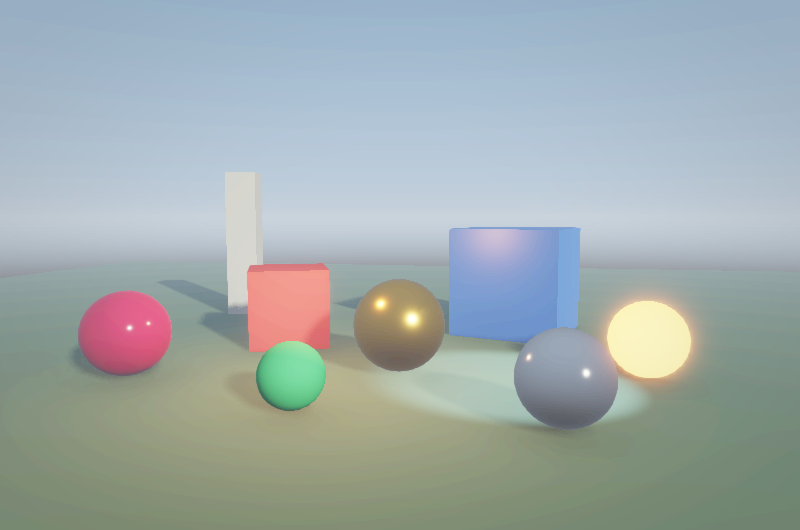
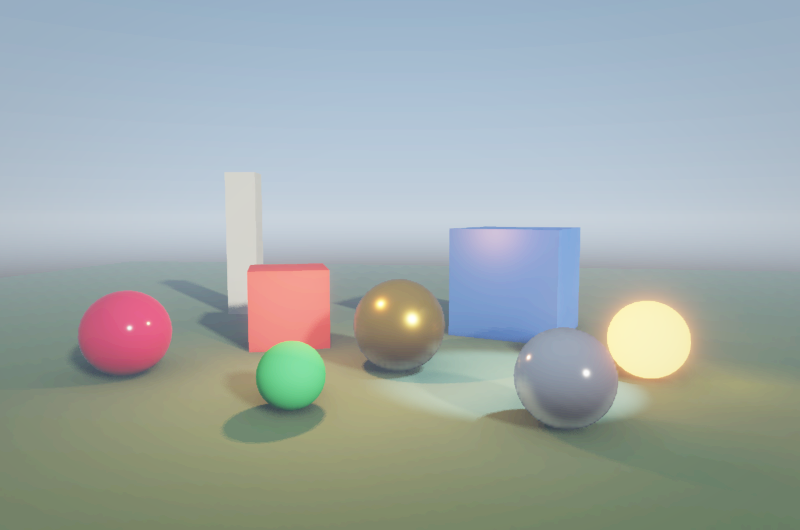
SSR: no speckle (self-hit rejection, silhouette fade, depth-aware denoise)
The Ultra preset's screen-space reflections left blocky speckles along
the lower edges of metal spheres: the jittered half-resolution march is
noisy and TAA's neighbourhood clamp kept the noise. Now:
- a hit must lie a few texels from the start and on a surface facing the
  ray (one normal tap at the hit; 11 march steps keep the shader within
  the CPU JIT's 16 samples);
- reflections fade out where the surface is nearly side-on;
- a separable depth-aware blur (pp_ssrblur_fragment, two half-resolution
  passes) denoises the result before the composite.
The gfx-ssr, gfx-ultra and gfx-low screenshots are re-rendered.

Also in the editor: a visible grey track for switches that are off (they
disappeared in the light theme), and the Settings title carries its icon.

Claude-Session: https://claude.ai/code/session_0112xJogLv1dfHPcB1oxhcYo

diff --git a/engine/gfx/shaders_hq.cpp b/engine/gfx/shaders_hq.cpp
@@ -830,8 +830,11 @@ void pp_ssrmask_fragment(char* out, size_t cap) {
           "}\n");
 }
 
-// Marches the reflection ray in view space (12 steps, spaced quadratically, jittered) against the depth buffer
-// and adds the scene colour found there, weighted by Fresnel and smoothness; u_ao.zw: ortho flag, far m;
+// Marches the reflection ray in view space (11 steps, spaced quadratically, jittered) against the depth buffer
+// and adds the scene colour found there, weighted by Fresnel and smoothness. A hit must be a few texels away
+// and on a surface facing the ray (no self-hits where the ray grazes its own object), and reflections fade
+// out at silhouettes, where the normal is nearly side-on (11 depth taps + the hit's normal keep the shader
+// within the CPU JIT's 16 samples); u_ao.zw: ortho flag, far m;
 // u_q: x max distance m, y thickness m, z roughness cutoff. Output: the HDR encoded contribution.
 void pp_ssr_fragment(char* out, size_t cap) {
     Text t(out, cap);
@@ -861,32 +864,67 @@ void pp_ssr_fragment(char* out, size_t cap) {
           "    vec2 mat = texture(u_mat, uv).rg;\n"
           "    vec4 st = vec4(uv, 0.0, 0.0);\n"        // xy: the hit uv, z: hit, w: jitter
           "    st.w = fract(52.9829189 * fract(dot(gl_FragCoord.xy, vec2(0.06711056, 0.00583715))) + u_ao.z);\n");
-    for (int i = 0; i < 12; i++) {
+    const int steps = 11;
+    for (int i = 0; i < steps; i++) {
         t.add("    {\n        vec3 S = P + Rr * (((");
         t.flt((float)i + 0.5f);
-        t.add(" + st.w - 0.5) / 12.0) * ((");
+        t.add(" + st.w - 0.5) / 11.0) * ((");
         t.flt((float)i + 0.5f);
-        t.add(" + st.w - 0.5) / 12.0) * u_q.x + 0.05);\n"
+        t.add(" + st.w - 0.5) / 11.0) * u_q.x + 0.05);\n"
               "        vec2 suv = mix(vec2(S.x / max(S.z, 0.05) / u_proj.x * 0.5 + 0.5, 0.5 - S.y / max(S.z, 0.05) / u_proj.y * 0.5),\n"
               "                       vec2(S.x / u_proj.x * 0.5 + 0.5, 0.5 - S.y / u_proj.y * 0.5), u_ao.x);\n"
               "        float diff = S.z - depth_at(suv);\n"
-              "        float ok = step(0.0, diff) * step(diff, u_q.y + 0.05 * S.z) * step(st.z, 0.5) * step(0.0, suv.x) * step(suv.x, 1.0) * step(0.0, suv.y) * step(suv.y, 1.0);\n"
+              "        vec2 away = (suv - uv) / u_p.xy;\n"     // in texels: a hit next to the start is the surface itself
+              "        float ok = step(0.0, diff) * step(diff, u_q.y + 0.05 * S.z) * step(st.z, 0.5) * step(0.0, suv.x) * step(suv.x, 1.0) * step(0.0, suv.y) * step(suv.y, 1.0)\n"
+              "                 * step(9.0, dot(away, away));\n"
               "        st.xy = mix(st.xy, suv, ok);\n"
               "        st.z = max(st.z, ok);\n"
               "    }\n");
     }
     t.add("    float k = 0.0;\n"
           "    {\n"
+          "        vec3 Nh = texture(u_normal, st.xy).rgb * 2.0 - 1.0;\n"   // the surface hit must face the ray
+          "        Nh = vec3(Nh.x, Nh.y, -Nh.z);\n"
+          "        float facing = clamp(-dot(Nh, Rr) * 4.0, 0.0, 1.0);\n"
           "        vec2 e = abs(st.xy - 0.5) * 2.0;\n"
           "        float edge = clamp((1.0 - max(e.x, e.y)) * 8.0, 0.0, 1.0);\n"
-          "        float fr = pow(1.0 - clamp(dot(N, -V), 0.0, 1.0), 5.0);\n"
+          "        float nv = clamp(dot(N, -V), 0.0, 1.0);\n"
+          "        float silhouette = clamp((nv - 0.08) * 6.0, 0.0, 1.0);\n"   // side-on pixels: unreliable rays
+          "        float fr = pow(1.0 - nv, 5.0);\n"
           "        float f0 = mix(0.04, 0.8, mat.g);\n"
           "        float sm = clamp(1.0 - mat.r / u_q.z, 0.0, 1.0);\n"
-          "        k = (f0 + (1.0 - f0) * fr) * sm * sm * st.z * edge * clamp(Rr.z * 4.0 + 0.2, 0.0, 1.0);\n"
+          "        k = (f0 + (1.0 - f0) * fr) * sm * sm * st.z * edge * facing * silhouette * clamp(Rr.z * 4.0 + 0.2, 0.0, 1.0);\n"
           "    }\n"
           "    vec3 c = texture(u_scene, st.xy).rgb;\n"
           "    c = c * c * 8.0 * mix(1.0, 0.8, mat.g);\n"
           "    gl_FragColor = vec4(sqrt(clamp(c * k, 0.0, 8.0) * 0.125), 1.0);\n"
+          "}\n");
+}
+
+void pp_ssrblur_fragment(char* out, size_t cap) {
+    Text t(out, cap);
+    t.add("uniform sampler2D u_src;\n"
+          "uniform sampler2D u_depth;\n"
+          "uniform vec4 u_p;\n"
+          "uniform vec4 u_dir;\n"                 // xy: uv step of one tap
+          "uniform vec4 u_q;\n");                 // x: far (m)
+    t.add(kPack);
+    t.add("void main() {\n"
+          "    vec2 uv = gl_FragCoord.xy * u_p.xy;\n"
+          "    float d0 = unpack24(texture(u_depth, uv).rgb) * u_q.x;\n"
+          "    float tol = 0.05 + 0.03 * d0;\n"
+          "    vec3 sum = texture(u_src, uv).rgb * 0.3;\n"
+          "    float wsum = 0.3;\n");
+    static const float off[4] = { -2.0f, -1.0f, 1.0f, 2.0f };
+    static const float wt[4] = { 0.15f, 0.2f, 0.2f, 0.15f };
+    for (int i = 0; i < 4; i++) {
+        t.add("    {\n        vec2 o = uv + u_dir.xy * ");
+        t.flt(off[i]);
+        t.add(";\n        float w = clamp(1.0 - abs(unpack24(texture(u_depth, o).rgb) * u_q.x - d0) / tol, 0.0, 1.0) * ");
+        t.flt(wt[i]);
+        t.add(";\n        sum += texture(u_src, o).rgb * w;\n        wsum += w;\n    }\n");
+    }
+    t.add("    gl_FragColor = vec4(sum / wsum, 1.0);\n"
           "}\n");
 }
 

diff --git a/engine/gfx/passes.cpp b/engine/gfx/passes.cpp
@@ -157,7 +157,7 @@ struct GpuTier::Impl {
     LitProg lit_p[kMaxLitVariants];
     // targets
     Target shadow, gdepth, gnormal, ao_a, ao_b, scene, ldr;
-    Target gmat, ao_c, ao_hist, ssr_t;      // roughness / metal G-buffer, GTAO raw and history, the SSR result
+    Target gmat, ao_c, ao_hist, ssr_t, ssr_b;   // roughness / metal G-buffer, GTAO raw and history, the SSR result (+ blur scratch)
     uint64_t ao_scene_hash = 0;             // what the GTAO history was accumulated for
     FGLShader* gtao_p = nullptr;
     FGLShader* ao_accum_p = nullptr;
@@ -165,6 +165,7 @@ struct GpuTier::Impl {
     FGLShader* material_p = nullptr;
     FGLShader* ssrmask_p = nullptr;
     FGLShader* ssr_p = nullptr;
+    FGLShader* ssrblur_p = nullptr;
     Target sm_edges, sm_wh, sm_wv;          // SMAA: edges, blend weights of the two axes
     FGLTexture sm_area = 0;                 // the area texture (post_stack.h smaa_area), made on first use
     FGLShader* sm_edge_p = nullptr;
@@ -1019,6 +1020,25 @@ struct GpuTier::Impl {
         bind_tex(ssr_p, "u_mat", gmat, FGL_TEXTURE_CLAMP);
         bind_tex(ssr_p, "u_scene", scene_t, FGL_TEXTURE_LINEAR | FGL_TEXTURE_CLAMP);
         fs_draw(ssr_p);
+        // Denoise: the march is jittered per pixel at half resolution; a depth-aware blur across and down
+        // (ssr_t -> ssr_b -> ssr_t) removes the speckle TAA's clamp would otherwise keep.
+        if (!ensure(ssr_b, hw, hh, false)) return false;
+        if (!make(&ssrblur_p, shaders::pp_vertex, shaders::pp_ssrblur_fragment, "ssr blur")) return false;
+        fglDisable(gl, FGL_DEPTH_TEST);
+        for (int pass = 0; pass < 2; pass++) {
+            const Target& src = pass == 0 ? ssr_t : ssr_b;
+            const Target& dst = pass == 0 ? ssr_b : ssr_t;
+            set_target(dst.color, 0);
+            fglDisable(gl, FGL_DEPTH_TEST);
+            fglDisable(gl, FGL_CULL_FACE);
+            u4(ssrblur_p, "u_p", px, py, 0, 0);
+            u4(ssrblur_p, "u_dir", pass == 0 ? px * 1.5f : 0.0f, pass == 0 ? 0.0f : py * 1.5f, 0, 0);
+            u4(ssrblur_p, "u_q", far_m, 0, 0, 0);
+            u4(ssrblur_p, "u_z", 0, 0, 0, 0);
+            bind_tex(ssrblur_p, "u_src", src, FGL_TEXTURE_LINEAR | FGL_TEXTURE_CLAMP);
+            bind_tex(ssrblur_p, "u_depth", gdepth, FGL_TEXTURE_CLAMP);
+            fs_draw(ssrblur_p);
+        }
         if (!end_pass(t0, &stats.ssr_ms)) return false;
         return true;
     }
@@ -1497,12 +1517,12 @@ struct GpuTier::Impl {
         if (sm_area) fglDestroyTexture(gl, sm_area);
         sm_area = 0;
         free_target(sm_edges); free_target(sm_wh); free_target(sm_wv);
-        drop(&gtao_p); drop(&ao_accum_p); drop(&copy_p); drop(&material_p); drop(&ssrmask_p); drop(&ssr_p);
+        drop(&gtao_p); drop(&ao_accum_p); drop(&copy_p); drop(&material_p); drop(&ssrmask_p); drop(&ssr_p); drop(&ssrblur_p);
         for (FGLShader*& s : unlit_p) drop(&s);
         for (FGLShader*& s : sky_p) drop(&s);
         for (LitProg& v : lit_p) { drop(&v.sh); v = LitProg(); }
         free_target(shadow); free_target(atlas); free_target(gdepth); free_target(gnormal); free_target(ao_a); free_target(ao_b);
-        free_target(gmat); free_target(ao_c); free_target(ao_hist); free_target(ssr_t);
+        free_target(gmat); free_target(ao_c); free_target(ao_hist); free_target(ssr_t); free_target(ssr_b);
         free_target(scene); free_target(ldr);
         for (Target& t : bl_down) free_target(t);
         for (Target& t : bl_up) free_target(t);

diff --git a/engine/gfx/shaders_hq.h b/engine/gfx/shaders_hq.h
@@ -91,7 +91,9 @@ void pp_copy_fragment(char* out, size_t cap);                  // sampler u_src
 void hq_material_vertex(char* out, size_t cap);                // roughness / metallic G-buffer (u_mm.xy per item)
 void hq_material_fragment(char* out, size_t cap);
 void pp_ssrmask_fragment(char* out, size_t cap);               // samplers u_depth, u_mat; u_q.x roughness cutoff
-void pp_ssr_fragment(char* out, size_t cap);                   // samplers u_depth, u_normal, u_mat, u_scene
+void pp_ssr_fragment(char* out, size_t cap);
+// The SSR result blurred along u_dir (5 taps), weighted by depth similarity: denoises the jittered march.
+void pp_ssrblur_fragment(char* out, size_t cap);                   // samplers u_depth, u_normal, u_mat, u_scene
 void pp_blur_fragment(char* out, size_t cap);                  // u_dir: xy texel step
 void pp_bright_fragment(char* out, size_t cap, bool karis);    // u_q.x threshold; karis: weighted by 1 / (1 + luma)
 void pp_down_fragment(char* out, size_t cap, bool wide);       // wide: 13 taps, else a 4x4 box

diff --git a/editor/src/widgets.cpp b/editor/src/widgets.cpp
@@ -88,7 +88,8 @@ bool toggle_switch(const char* id, bool* value) {
     bool hovered = ImGui::IsItemHovered();
     ImDrawList* dl = ImGui::GetWindowDrawList();
     float y = p.y + (fh - h) * 0.5f;
-    ImU32 track = *value ? g_pal.accent : (hovered ? g_pal.active : g_pal.hover);
+    // Off: a grey track the white knob stands out on, in both themes.
+    ImU32 track = *value ? g_pal.accent : (hovered ? g_pal.text_dim : g_pal.text_faint);
     dl->AddRectFilled(ImVec2(p.x, y), ImVec2(p.x + w, y + h), track, h * 0.5f);
     float r = h * 0.5f - 2.0f;
     float cx = *value ? p.x + w - h * 0.5f : p.x + h * 0.5f;

diff --git a/editor/src/panels.cpp b/editor/src/panels.cpp
@@ -1594,7 +1594,7 @@ void Editor::window_settings() {
     ImGui::SetNextWindowSize(ImVec2(760, 520), ImGuiCond_FirstUseEver);
     ImGui::SetNextWindowPos(ImGui::GetMainViewport()->GetCenter(), ImGuiCond_FirstUseEver, ImVec2(0.5f, 0.5f));
     ImGui::SetNextWindowSizeConstraints(ImVec2(520, 320), ImVec2(FLT_MAX, FLT_MAX));
-    if (!begin_floating("Settings", &show_settings, ImGuiWindowFlags_NoCollapse)) {
+    if (!begin_floating(FE_ICON_GEAR "  Settings###Settings", &show_settings, ImGuiWindowFlags_NoCollapse)) {
         end_floating();
         return;
     }
